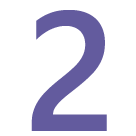
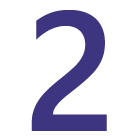
v2.33 added numbers in skills page

Changed region(s): [[0.2353, 0.0588, 0.7941, 0.9706]]

diff --git a/index.html b/index.html
@@ -413,34 +413,38 @@
 				</div>
 
 				<div class="row fixedheight">
-					<div class="col-xs-4 col-xs-offset-4 centerparent">
-						<span class="mainskill">ART</span><br>
-						<span class="skilldescription"> Oil painting, Water painting</span><br>
-						<img src="images/skill1.png" class="skillimg"/>
+					<div class="col-xs-4 col-xs-offset-4 centerparent ">
+						<span class="mainskill vhzindex">ART</span><br>
+						<span class="skilldescription vhzindex"> Oil painting, Water painting</span><br>
+						<img src="images/skill1.png" class="skillimg vhzindex"/>
+						<img src="images/num1.png" id= "num1"/>
 					</div>
 				</div>
 				<div class="row rowheight">
 					<div class="col-xs-4 rightparent verticallymiddle">
-						<span class="mainskill" style="margin-right: -15%" >Photography&nbsp;</span><br>
-						<span class="skilldescription" style="margin-right: -15%" >Nature, Candid, Professional&nbsp;&nbsp;&nbsp;</span><br>
+						<span class="mainskill vhzindex" style="margin-right: -15%" >Photography&nbsp;</span><br>
+						<span class="skilldescription vhzindex" style="margin-right: -15%" >Nature, Candid, Professional&nbsp;&nbsp;&nbsp;</span>
+						<img src="images/num4.png" id= "num4"/><br>
 					</div>
 		
 					<div class="col-xs-4 centerparent">
-						<img src="images/skill4.png" class="skillimg middleimage"/>
+						<img src="images/skill4.png" class="skillimg vhzindex middleimage"/>
 						<img src="images/skills-center.png" class="skills-center-img">
-						<img src="images/skill2.png" class="skillimg4 middleimage"/>
+						<img src="images/skill2.png" class="skillimg4 vhzindex middleimage"/>
 					</div>
 					
 					<div class="col-xs-4 leftparent verticallymiddle">
-						<span class="mainskill" style="margin-left: -15%" >&nbsp;UI/UX</span><br>
-						<span class="skilldescription" style="margin-left: -15%" >&nbsp;&nbsp;&nbsp;Sketch, Principle, Pixate</span><br>
+						<span class="mainskill vhzindex" style="margin-left: -15%" >&nbsp;UI/UX</span><br>
+						<span class="skilldescription vhzindex" style="margin-left: -15%" >&nbsp;&nbsp;&nbsp;Sketch, Principle, Pixate</span>
+						<img src="images/num2.png" id= "num2"/><br>
 					</div>
 				</div>
 				<div class="row fixedheight">
 					<div class="col-xs-4 col-xs-offset-4 centerparent">
-						<img src="images/skill3.png" class="skillimg"/><br>
-						<span class="mainskill">Graphic Design</span><br>			
-						<span class="skilldescription"> Poster, Logo, Brand Building</span>
+						<img src="images/skill3.png" class="skillimg vhzindex"/><br>
+						<span class="mainskill vhzindex">Graphic Design</span><br>			
+						<span class="skilldescription vhzindex"> Poster, Logo, Brand Building</span>
+						<img src="images/num3.png" id= "num3"/>
 					</div>
 				</div>				
 			</div>

diff --git a/style/style.css b/style/style.css
@@ -644,8 +644,37 @@ a.amo-work-link:hover{
 .purple{
 	background-color: #453c8b;
 }
-.anim{
-
+#num1{
+    position: absolute;
+    height: 114px;
+    top: -14px;
+    left: 36.5%;
+    z-index: 0;
 }
 
+#num2{
+    position: absolute;
+    height: 114px;
+    z-index: 0;
+    left: -20%;
+    top: -33px;
+}
+#num3{
+    position: absolute;
+    height: 114px;
+    z-index: 4 ;
+    left: 36.5%;
+    top: -15px;
+}
+#num4{
+    position: absolute;
+    height: 114px;
+    z-index: 0;
+    left: 86%;
+    top: -30px;
+}
+.vhzindex{
+    position: relative;
+    z-index: 10;
+}
 /********************************************/
